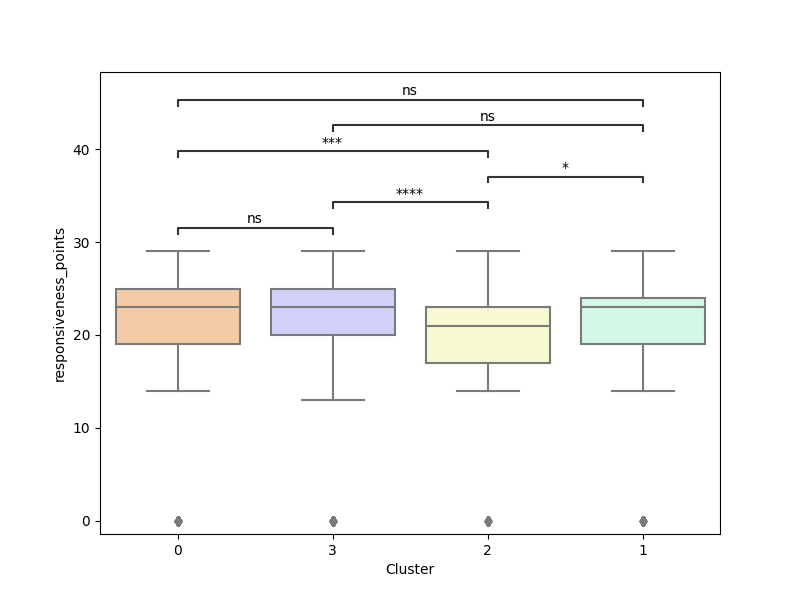
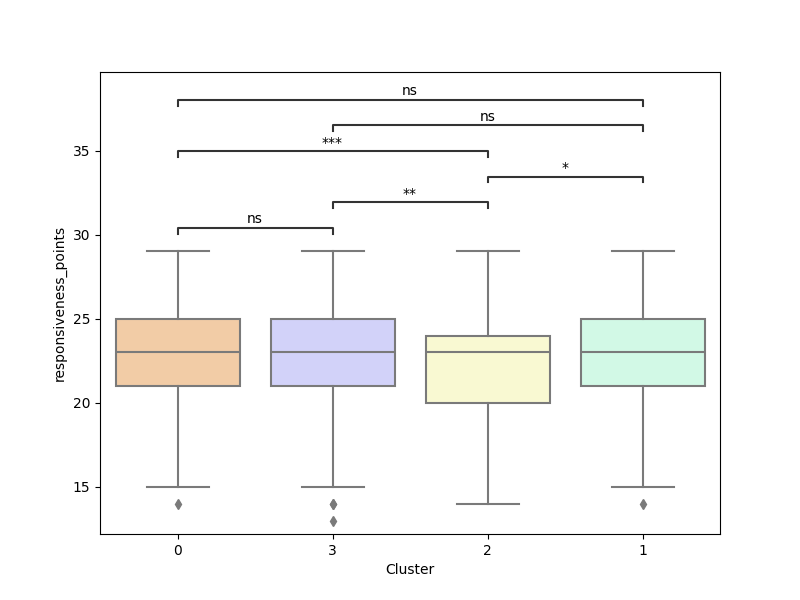
hdbscan full & kmeans full & kmeans categories visualizations final w. preprocessed labeling set

diff --git a/clustering/clustering_visualization.py b/clustering/clustering_visualization.py
@@ -21,7 +21,7 @@ def boxplot(data, col, where):
     annotator.apply_and_annotate()
     plt.xlabel('Cluster')
     plt.ylabel(col)
-    filename = '../images/' + where + '/kmeans_categories_' + col + '.png'
+    filename = '../images/' + where + '/hdbscan_full_' + col + '.png'
     plt.savefig(filename)
 
 
@@ -42,7 +42,7 @@ def bar_plot(data, col, where):
     annotator.apply_and_annotate()
     plt.xlabel('Cluster')
     plt.ylabel(col)
-    filename = '../images/' + where + '/kmeans_full_' + col + '.png'
+    filename = '../images/' + where + '/hdbscan_full_' + col + '.png'
     plt.savefig(filename)
 
 
@@ -72,6 +72,9 @@ def visualize_labeling(data):
     for numerical in numerical_features:
         # keep only the data that does not contain NaN values in this specific feature
         visualize_data = data.dropna(subset=[numerical])
+        # for the features resting_heart_rate, stress_score and responsiveness_points keep only the rows that do not contain 0 values
+        if numerical in ['resting_heart_rate', 'stress_score', 'responsiveness_points']:
+            visualize_data = visualize_data[visualize_data[numerical] != 0]
         visualize_data['cluster'] = visualize_data['cluster'].astype(str)
         # for the arithmetic features: visualize the clean data with a boxplot
         boxplot(visualize_data, numerical, 'clustering_labeling')
@@ -93,7 +96,7 @@ def visualize_labeling(data):
 
 if __name__ == '__main__':
     # visualize the training features along with the clustering results
-    data = pd.read_pickle('../data/labeling_visualizations/kmeans_categories_labeling.pkl')
+    data = pd.read_pickle('../data/labeling_visualizations/hdbscan_full_labeling.pkl')
     # visualize_training(data)
 
     # visualize the labeling features along with the clustering results
